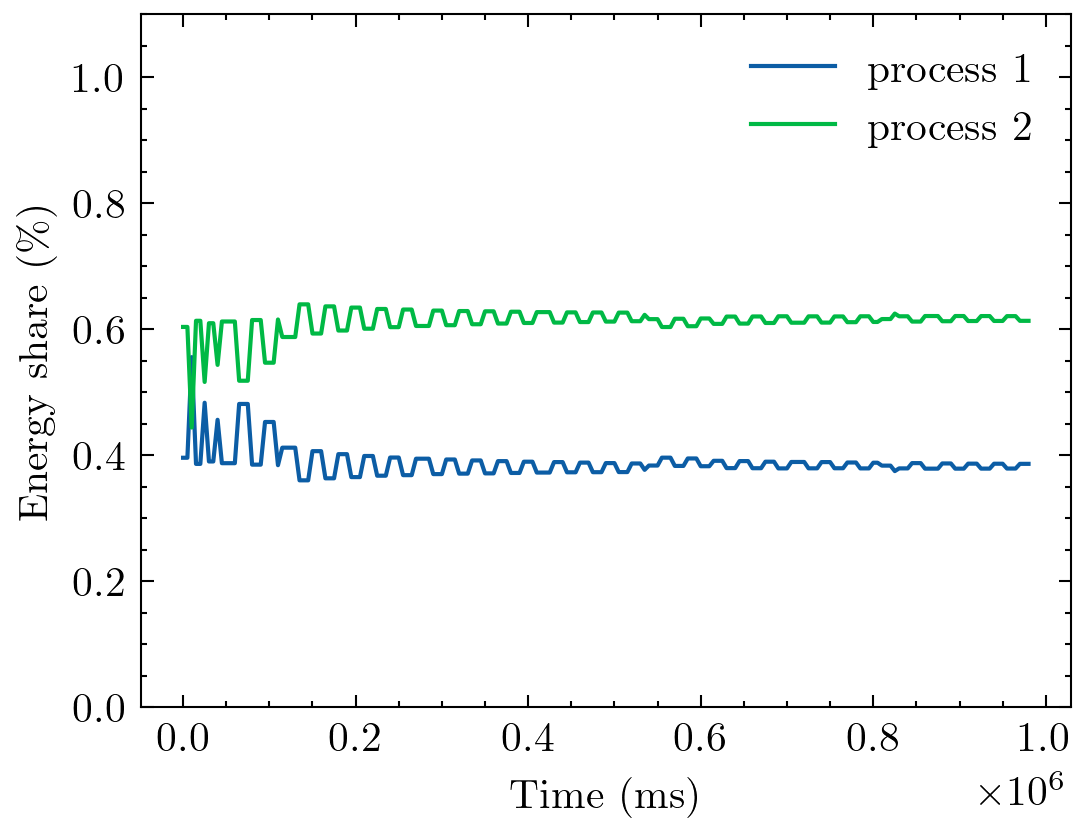
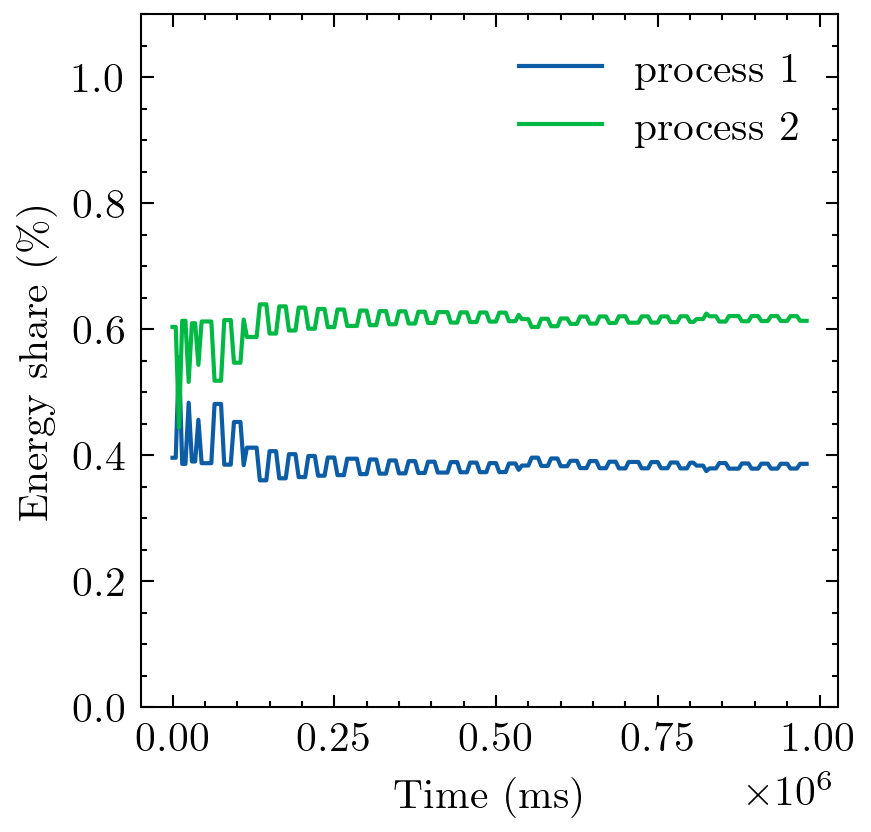
graph shapes

diff --git a/efs_test/plot_graph.py b/efs_test/plot_graph.py
@@ -165,7 +165,7 @@ if __name__ == "__main__":
     plt.style.use("science")
 
     # Increase the figure size
-    plt.figure(figsize=(4, 3), dpi=300)
+    plt.figure(figsize=(3, 3), dpi=300)
 
     plot_power_graph(sys.argv[1] + "-cfs", int(sys.argv[2]))
     plot_energy_graph(sys.argv[1] + "-cfs", int(sys.argv[2]))
